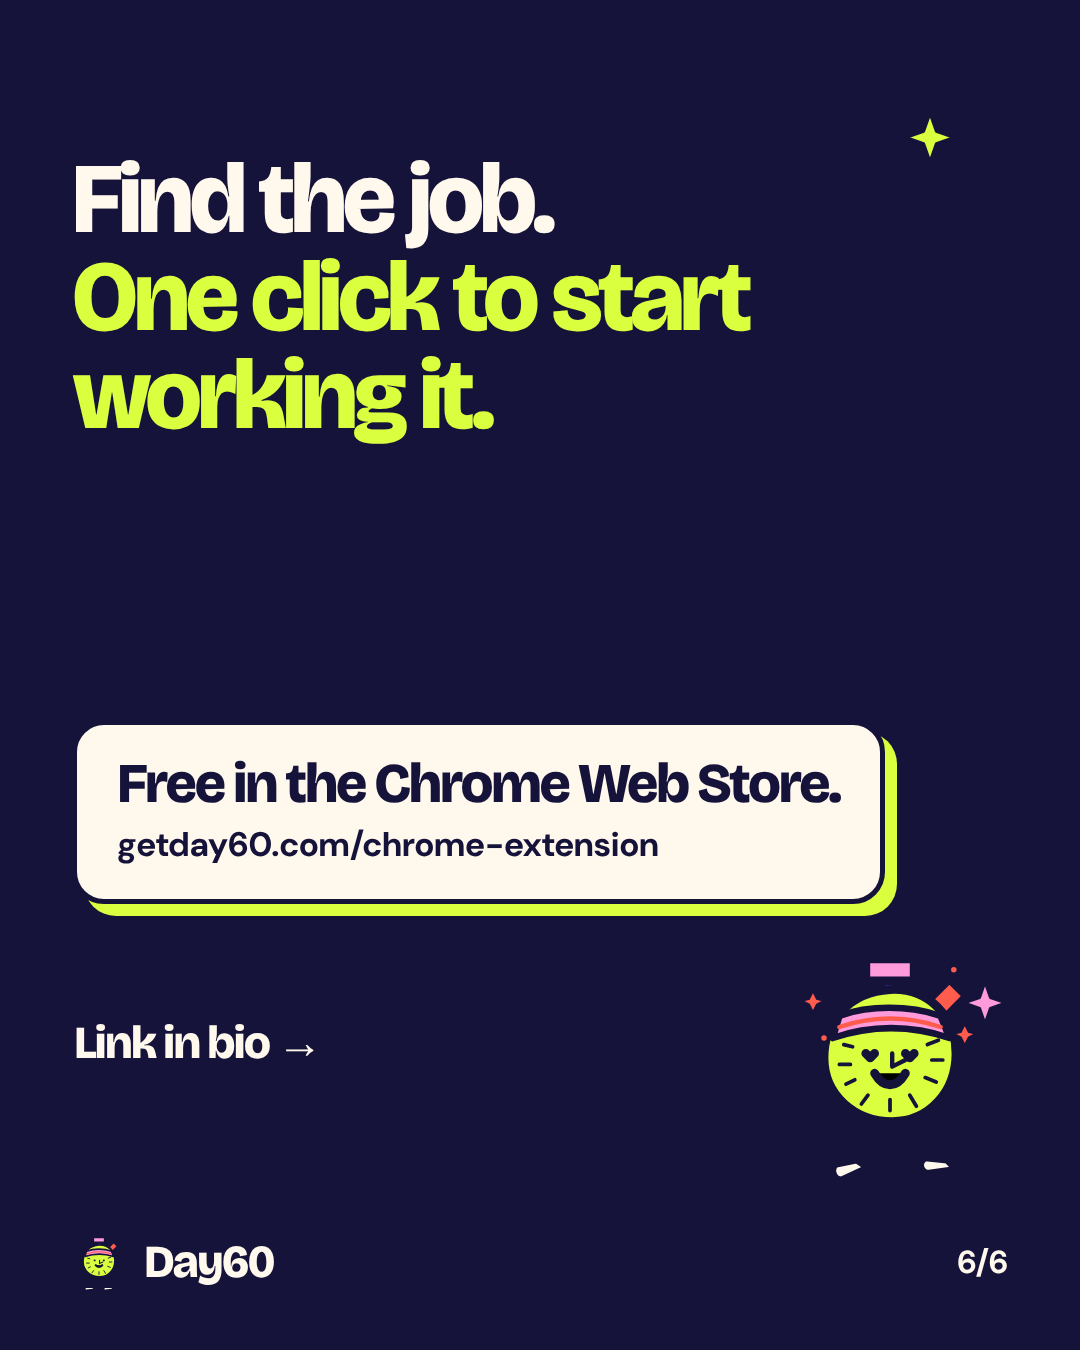
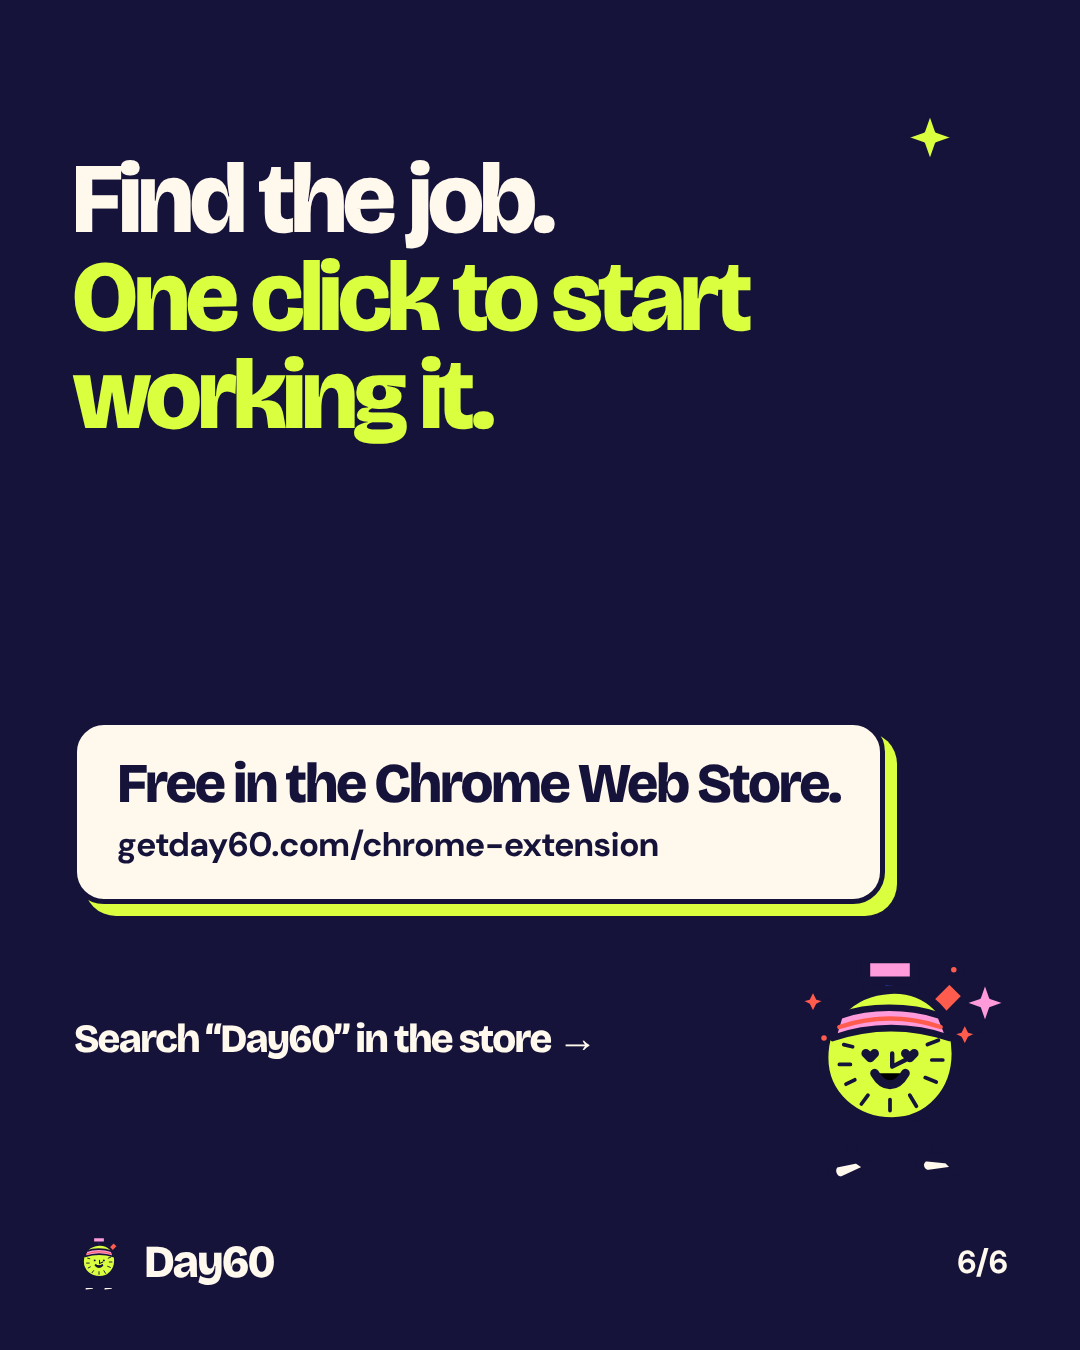
wk46: drafts for HQ: new-look extension carousel swaps, message-checker carousel, 404 post
Claude-Session: https://claude.ai/code/session_014zSVjErjAMHVvWF3qVQjpt

Changed region(s): [[0.0611, 0.7467, 0.5194, 0.8089]]

diff --git a/2026-11/wk46/build_picks.py b/2026-11/wk46/build_picks.py
@@ -1,0 +1,148 @@
+"""Site-pick posts in Day60's design system (HQ "resume" picks, Nov 5).
+
+p15_checker_1-7: /message-checker carousel. A bad and a fixed cold email, both
+  invented (sender "Sam", recipient "Dana", company "Northpine"), run through the
+  live checker on Nov 5. Real crops in site/: choice cards, Tick's checklist
+  (7 to fix, then all 13 pass). The draft itself is set in our own card because
+  the site's message box edges are faint.
+p16_tick_404: the 404 page ("Tick looked everywhere"), card crop only (no footer).
+
+Crops are re-shot with scratchpad picks/cap.js and p404.js (390px, DSF 3).
+Run from repo root: python3 2026-11/wk46/build_picks.py
+"""
+import html, json, os, subprocess, sys
+WK = os.path.dirname(os.path.abspath(__file__))
+ROOT = os.path.dirname(os.path.dirname(WK))
+sys.path.insert(0, os.path.join(ROOT, "design-system"))
+from ds import *  # noqa
+
+TMP = os.path.join(WK, "_picks"); os.makedirs(TMP, exist_ok=True)
+SITE = os.path.join(WK, "site")
+N = 7
+jobs = []
+EX = (f'<div style="position:absolute;right:72px;top:100px"><span class="sticker" '
+      f'style="background:{MUTED};font-size:22px;box-shadow:none">Example · invented message</span></div>')
+
+BAD_SUBJ = "Following up on my application for the Account Executive role at Northpine"
+BAD = ("I hope this email finds you well! I wanted to reach out because I recently applied for the Account "
+       "Executive position and I am very passionate about sales — I believe I would be a great fit — I have "
+       "5 years of experience closing deals and exceeding quota. I'd love to pick your brain sometime. "
+       "Looking forward to hearing from you!")
+GOOD_SUBJ = "Northpine AE role"
+GOOD = ("Hi Dana,\n\nYour team is opening mid-market accounts across Denver this quarter, and the new Account "
+        "Executive will own a lot of them. Last year I built a territory like that from zero to $1.2M in signed "
+        "contracts, mostly through outbound to operations leaders.\n\nI applied for the role this morning and would "
+        "like to show you how I'd plan the first 90 days in that territory. Would a 15-minute call next Tuesday or "
+        "Wednesday work for you?\n\nBest,\nSam\n\nIf you're not the right person, a quick 'not me' is a kindness.")
+
+
+def out(name, body, bg=CREAM):
+    p = os.path.join(TMP, name + ".html"); open(p, "w").write(page(body, bg=bg))
+    jobs.append({"html": p, "png": os.path.join(WK, name + ".png"), "w": 1080, "h": 1350})
+
+
+def count(i, dark=False):
+    return foot(bottom=56, right=f"{i}/{N}", dark=dark)
+
+
+def head(n, text, top=200, size=76):
+    return (f'<div style="position:absolute;left:72px;top:{top}px;right:72px;display:flex;gap:32px;align-items:center">'
+            f'<div class="step d" style="flex:none;width:110px;height:110px;font-size:58px">{n}</div>'
+            f'<div class="d" style="font-size:{size}px">{text}</div></div>')
+
+
+def title(text, top=200, size=88):
+    return f'<div class="d" style="position:absolute;left:72px;right:72px;top:{top}px;font-size:{size}px">{text}</div>'
+
+
+def says(pose, text, top, w=170):
+    return (f'<div style="position:absolute;left:72px;right:72px;top:{top}px;display:flex;align-items:flex-end;gap:24px">'
+            f'{tick(pose, w, "flex:none")}<div class="bubble left" style="--tail:52px;margin-bottom:{int(w*0.55)}px;font-size:36px">{text}</div></div>')
+
+
+def shot(fname, top, width=936, left=72):
+    src = os.path.join(SITE, fname)
+    return (f'<div class="card" style="position:absolute;left:{left}px;top:{top}px;width:{width}px;padding:0;overflow:hidden;background:{WHITE}">'
+            f'<img src="file://{src}" style="display:block;width:100%"></div>')
+
+
+def draft(subj, body, top, size):
+    b = html.escape(body).replace("\n", "<br>")
+    return (f'<div class="card" style="position:absolute;left:72px;right:72px;top:{top}px;padding:32px 40px;font-size:{size}px;line-height:1.38">'
+            f'<div class="lbl" style="font-size:24px;color:{MUTED_TEXT}">Subject</div>'
+            f'<div style="font-weight:700;margin-top:6px">{html.escape(subj)}</div>'
+            f'<div style="border-top:4px solid {INK};margin:22px 0 20px"></div>{b}</div>')
+
+
+# 1 cover
+out("p15_checker_1",
+    f'<div style="position:absolute;left:72px;top:96px"><span class="sticker" style="background:{PINK}">Free tool</span></div>'
+    + spark(890, 90, 70) + spark(975, 220, 40, MINT)
+    + title('Would Tick let you <span class="fill" style="white-space:nowrap">send it?</span>', 220, 124)
+    + f'<div style="position:absolute;left:74px;top:740px;width:560px;font-size:40px;font-weight:700;line-height:1.25">'
+      f'One cold email through Day60\'s free message checker. Before and after.</div>'
+    + f'<div style="position:absolute;left:72px;top:1000px"><span class="btn" style="font-size:38px;padding:18px 34px">Swipe →</span></div>'
+    + f'<div style="position:absolute;right:80px;top:790px">{tick("thinking", 300)}</div>'
+    + count(1))
+
+# 2 pick the channel (real crop)
+out("p15_checker_2",
+    head("01", "Pick what you're sending.", 220)
+    + shot("checker_cards.png", 440, 820, 130)
+    + says("pointing", "Each one has its own rules.", 1000)
+    + count(2))
+
+# 3 the bad draft
+out("p15_checker_3",
+    EX + head("02", "Paste your draft.", 220)
+    + draft(BAD_SUBJ, BAD, 420, 34)
+    + says("thinking", "Sound familiar?", 1010, 150)
+    + count(3))
+
+# 4 the verdict (real crop)
+out("p15_checker_4",
+    title('Tick\'s verdict: <span class="fill">7 to fix.</span>', 150, 92)
+    + shot("checker_fix.png", 320, 720, 180)
+    + says("waiting", "Seven fixes. Each one tells you why.", 1010, 150)
+    + count(4))
+
+# 5 the fixed draft
+out("p15_checker_5",
+    EX + head("03", "Fix it. Check again.", 200)
+    + draft(GOOD_SUBJ, GOOD, 380, 28)
+    + count(5))
+
+# 6 all pass (real crop)
+out("p15_checker_6",
+    title('<span class="fill">All 13 rules pass.</span>', 150, 92)
+    + shot("checker_pass.png", 300, 660, 210)
+    + says("celebrating", "Same ask. Easier to answer.", 1010, 150)
+    + count(6))
+
+# 7 CTA (dark)
+out("p15_checker_7",
+    spark(900, 110, 60, LIME) + spark(960, 980, 50, PINK)
+    + f'<div class="d" style="position:absolute;left:72px;right:72px;top:150px;font-size:100px;color:{CREAM}">Check it before<br>you send it.<br><span style="color:{LIME}">Free.</span></div>'
+    + f'<div style="position:absolute;left:74px;top:600px;width:620px;font-size:36px;line-height:1.3;color:{CREAM}">'
+      f'Tick checks the rules, not the facts. Make sure every detail is true.</div>'
+    + f'<div class="card" style="position:absolute;left:72px;top:800px;padding:32px 40px;background:{CREAM};box-shadow:12px 12px 0 {LIME}">'
+      f'<div class="d" style="font-size:56px">Message checker</div>'
+      f'<div style="font-size:34px;font-weight:700;margin-top:10px">getday60.com/message-checker</div></div>'
+    + f'<div class="d" style="position:absolute;left:74px;top:1080px;font-size:40px;color:{CREAM}">Free sprint: link in bio →</div>'
+    + f'<div style="position:absolute;right:80px;top:960px">{tick("celebrating", 200)}</div>'
+    + count(7, dark=True), bg=D_BG)
+
+# p16 404 (single image, real crop)
+out("p16_tick_404",
+    f'<div style="position:absolute;left:72px;top:96px"><span class="sticker" style="background:{PINK}">Behind the scenes</span></div>'
+    + spark(900, 96, 60) + spark(980, 200, 36, MINT)
+    + title('Even our 404 page<br>has a <span class="fill">job to do.</span>', 200, 92)
+    + shot("not_found.png", 450, 600, 72)
+    + f'<div style="position:absolute;left:712px;right:56px;top:500px;font-size:34px;font-weight:700;line-height:1.3">'
+      f'Lost? Tick looked everywhere.<br><br>Then it points you to one thing worth doing: '
+      f'<span class="fill" style="white-space:nowrap">a free sprint.</span></div>'
+    + foot())
+
+if __name__ == "__main__":
+    jf = os.path.join(TMP, "jobs.json"); json.dump(jobs, open(jf, "w"))
+    subprocess.run(["node", os.path.join(ROOT, "templates", "render_many.js"), jf], check=True)

diff --git a/2026-11/wk46/build_ext.py b/2026-11/wk46/build_ext.py
@@ -126,7 +126,7 @@ out("p14_ext_steps_6", page(
     + f'<div class="card" style="position:absolute;left:72px;top:720px;padding:32px 40px;background:{CREAM};box-shadow:12px 12px 0 {LIME}">'
       f'<div class="d" style="font-size:56px">Free in the Chrome Web Store.</div>'
       f'<div style="font-size:34px;font-weight:700;margin-top:10px">getday60.com/chrome-extension</div></div>'
-    + f'<div class="d" style="position:absolute;left:74px;top:1020px;font-size:46px;color:{CREAM}">Link in bio →</div>'
+    + f'<div class="d" style="position:absolute;left:74px;top:1020px;font-size:40px;color:{CREAM}">Search “Day60” in the store →</div>'
     + f'<div style="position:absolute;right:80px;top:930px">{tick("celebrating", 220)}</div>'
     + count(6, dark=True), bg=D_BG))
 

diff --git a/2026-11/wk46/posts.md b/2026-11/wk46/posts.md
@@ -296,6 +296,103 @@ Share this with someone who's job hunting this weekend.
 
 ---
 
+## Drafts for HQ (Nov 5, not scheduled): new-look extension posts + site picks
+Approved v9 posts above are unchanged. These are proposals, so Philip approves them before anything goes into Buffer. Each row says which slot it swaps into or adds. Friday Nov 13 has no posts yet, so the two new site-pick posts go there. If both are added, IG and FB have 6 posts each this week. Batch them to stay under Buffer's 10-queued limit.
+
+| ID | Day | Time | Platform | Format | Asset | Batch | Note |
+| --- | --- | --- | --- | --- | --- | --- | --- |
+| FB3-new | Draft · swaps | 6:00 PM | Facebook | Carousel (6) | p14_ext_steps_1–6.png | A | Swap into FB3 (Tue Nov 10). Same copy. |
+| IG5-fallback | Draft · swaps | 10:00 AM | Instagram | Carousel (6) | p14_ext_steps_1–6.png | B | New IG5 fallback (Sat Nov 14) if the Reel isn't ready |
+| IG6 | Draft · Fri Nov 13 | 12:00 PM | Instagram | Carousel (7) | p15_checker_1–7.png | B | New slot |
+| FB6 | Draft · Fri Nov 13 | 6:00 PM | Facebook | Image | p16_tick_404.png | B | New slot, light post |
+
+### FB3-new · Tue Nov 10 · 6:00 PM · swaps the FB3 image for the new-look carousel
+- Carousel: `p14_ext_steps_1–6.png` (built by `build_ext.py`). The copy is FB3's, word for word, and slide 5 ("What it never does") matches the FAQ.
+- Link: https://getday60.com/chrome-extension?utm_source=facebook&utm_medium=social&utm_campaign=2026-w46&utm_content=extension-faq
+- Alt text (per slide): 1 "From a careers page to your sprint. One click." with Tick pointing · 2 Step 01, an invented Northpine Account Executive job on its careers page · 3 Step 02, the Day60 popup with the "Find the 4 people with Day60" button · 4 Step 03, Day60 with the job link filled in and the four roles: hiring manager, their boss, internal champion, recruiter · 5 What it never does: read your LinkedIn pages, fill in forms or apply, send messages; it runs only when you click it · 6 Free in the Chrome Web Store, getday60.com/chrome-extension
+- Claims are limited to the live v1.0.0 store listing. The company is invented and labeled. p10 is untouched because the scheduled IGX post uses it.
+
+```
+Five questions people ask before installing a Chrome extension, answered for the Day60 one.
+
+Does it apply to jobs for me? No. It never fills in forms, applies or sends anything.
+
+Does it read my LinkedIn? No. On LinkedIn it never reads the page. You paste the job's details instead.
+
+When does it run? Only when you click it, and only on the tab you're on.
+
+Does it track me? No analytics, and nothing is stored in your browser.
+
+So what does it do? On a job on a company's careers page, click it and press "Find the 4 people with Day60". The job opens in Day60, ready to find the four people closest to the hire. It's free.
+
+Get it here: https://getday60.com/chrome-extension?utm_source=facebook&utm_medium=social&utm_campaign=2026-w46&utm_content=extension-faq
+
+Got a question we didn't cover? Ask in the comments.
+
+#jobsearch #day60
+```
+
+### IG5-fallback · Sat Nov 14 · 10:00 AM · new-look fallback for the IG5 Reel
+- Carousel: `p14_ext_steps_1–6.png`. It replaces the old-look p10 + wk1/p11 fallback. The IG5 copy is unchanged.
+- Alt text (per slide): same as FB3-new.
+
+```
+Watch it work: one click on a careers page, and the job opens in Day60.
+
+Found a job on a company's careers page? Click the Day60 icon, press "Find the 4 people with Day60", and you see the 4 people closest to the hire. Then a short note to each, in your voice. You send it.
+
+It only runs when you click it, and it never reads LinkedIn.
+
+Free: search "Day60" in the Chrome Web Store.
+
+#day60 #jobsearch #jobsearchtips #careertips #productivity
+```
+
+### IG6 · Fri Nov 13 · 12:00 PM · SITE PICK: MESSAGE CHECKER
+- Carousel: `p15_checker_1–7.png` (built by `build_picks.py`). Slides 2, 4 and 6 are real crops of getday60.com/message-checker, shot Nov 5: the choice cards and Tick's checklist. The draft is set in our own card because the site's message box edges are faint.
+- Both drafts are invented (sender "Sam", recipient "Dana", company "Northpine"), and the slides say so. The live checker really scored them 7 to fix / 6 passed, then All 13 rules pass.
+- Link (bio stays /try; this goes in the caption as text): https://getday60.com/message-checker?utm_source=instagram&utm_medium=social&utm_campaign=2026-w46&utm_content=message-checker
+- Alt text (per slide): 1 "Would Tick let you send it?" with Tick thinking · 2 Step 01, the checker's three choices: cold email, LinkedIn connection note, LinkedIn message after they accept · 3 Step 02, an invented first draft that opens "I hope this email finds you well" · 4 Tick's checklist: 7 to fix, 6 passed, short subject line and "doesn't start with I" flagged · 5 Step 03, the invented rewrite to Dana with one question and a sign-off · 6 Tick's checklist: all 13 rules pass · 7 Check it before you send it, free, getday60.com/message-checker
+
+```
+Would Tick let you send it?
+
+We ran one cold email through Day60's free message checker.
+
+The first draft: 7 things to fix. It opened with "I". The subject line ran 12 words. There was no clear question, two em dashes, and the phrases "I wanted to reach out" and "passionate".
+
+The rewrite: one line about their team, one line of proof, one clear question. All 13 rules pass.
+
+Pick what you're sending (a cold email, a LinkedIn connection note, or the message after they accept), paste your draft, and Tick tells you what to fix and why.
+
+Tick checks the rules, not the facts. Make sure every detail is true.
+
+Free, no sign-up: getday60.com/message-checker
+
+(The sender, recipient and company are invented.)
+
+#day60 #jobsearch #coldemail #jobsearchtips #careertips
+```
+
+### FB6 · Fri Nov 13 · 6:00 PM · SITE PICK: LIGHT POST (404)
+- Image: `p16_tick_404.png`. A real crop of getday60.com/no-such-page, the card only, with no site footer.
+- Link: https://getday60.com/try?utm_source=facebook&utm_medium=social&utm_campaign=2026-w46&utm_content=tick-404
+- Alt text: "Even our 404 page has a job to do." The Day60 404 page shows Tick, "This page doesn't exist. Tick looked everywhere.", and buttons for "Back to home" and "Start my free sprint".
+
+```
+Even our 404 page has a job to do.
+
+Land on a page that doesn't exist and Tick has already looked everywhere. Then it points you back to the one thing worth doing.
+
+Same idea as the sprint: don't wander. Pick the job, find the four people closest to the hire, and send one short note to each.
+
+Start a free sprint (no card): https://getday60.com/try?utm_source=facebook&utm_medium=social&utm_campaign=2026-w46&utm_content=tick-404
+
+#day60 #jobsearch #smallwins
+```
+
+---
+
 ## Pinned and featured posts (one per channel)
 - **Instagram:** pin IG1 (the 7-slide carousel) to the top of the grid on Sunday.
 - **Facebook:** pin FB1 to the top of the Page on Sunday night.
